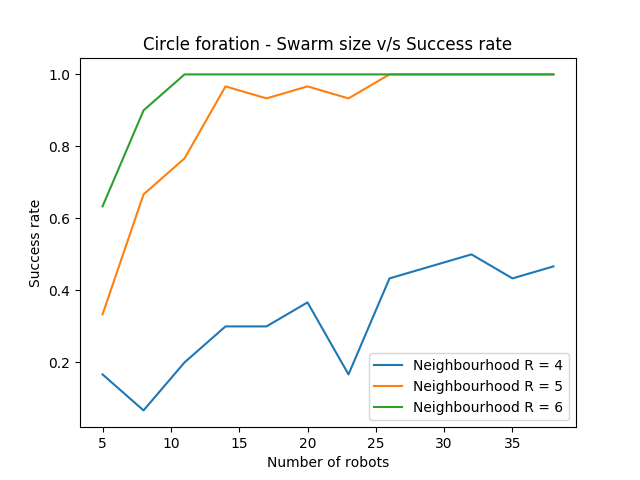
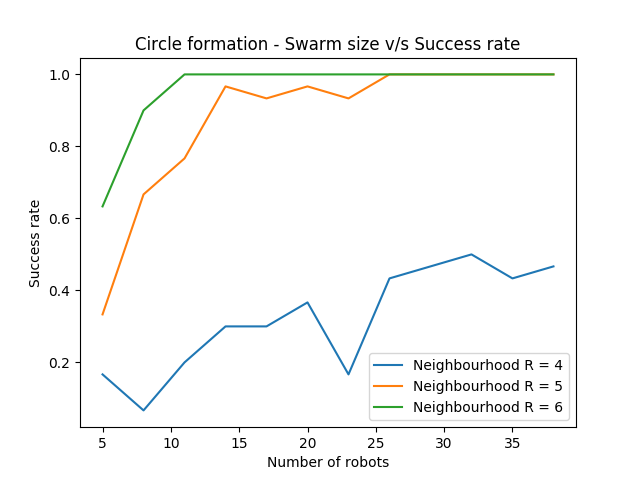
Circle iterations graph

Changed region(s): [[0.2188, 0.0625, 0.8125, 0.125]]

diff --git a/algorithm_simulation/analysis.py b/algorithm_simulation/analysis.py
@@ -33,7 +33,7 @@ CSV_PATH = "csv/"
 NUM_BOTS = 20
 NUM_SIMULATIONS = 30
 
-TASK = "circle_r1-5"
+TASK = "circle_r1-0"
 METHOD = "centroid"
 PREFIX = 'IGNORE__n6--'
 
@@ -196,6 +196,9 @@ def load_simulations(min_bots, max_bots, increment,
 
 #MAIN:
 
+r_name_list = ['1-0', '1-2', '1-5']
+r_list = [1, 1.2, 1.5]
+
 if __name__ == '__main__':
 
 	results = []
@@ -235,16 +238,16 @@ if __name__ == '__main__':
 				print("\t---\t\n\n")
 				results[j].produce_stats()
 				results[j].summary()
-			y = np.array([r.success_rate for r in results])
+			y = np.array([r.iterations for r in results])
 			plt.plot(x, y, label = "Neighbourhood R = "+str(i+4))
 		
 		"""  
 
 		"""
 		#plt.ylim((0,1.1))
-		plt.title('Circle foration - Swarm size v/s Success rate')
+		plt.title('Circle formation - Swarm size v/s Iterations')
 		plt.xlabel('Number of robots')
-		plt.ylabel('Success rate')
+		plt.ylabel('Iterations needed for Success')
 		plt.legend()
 		plt.show()
 
